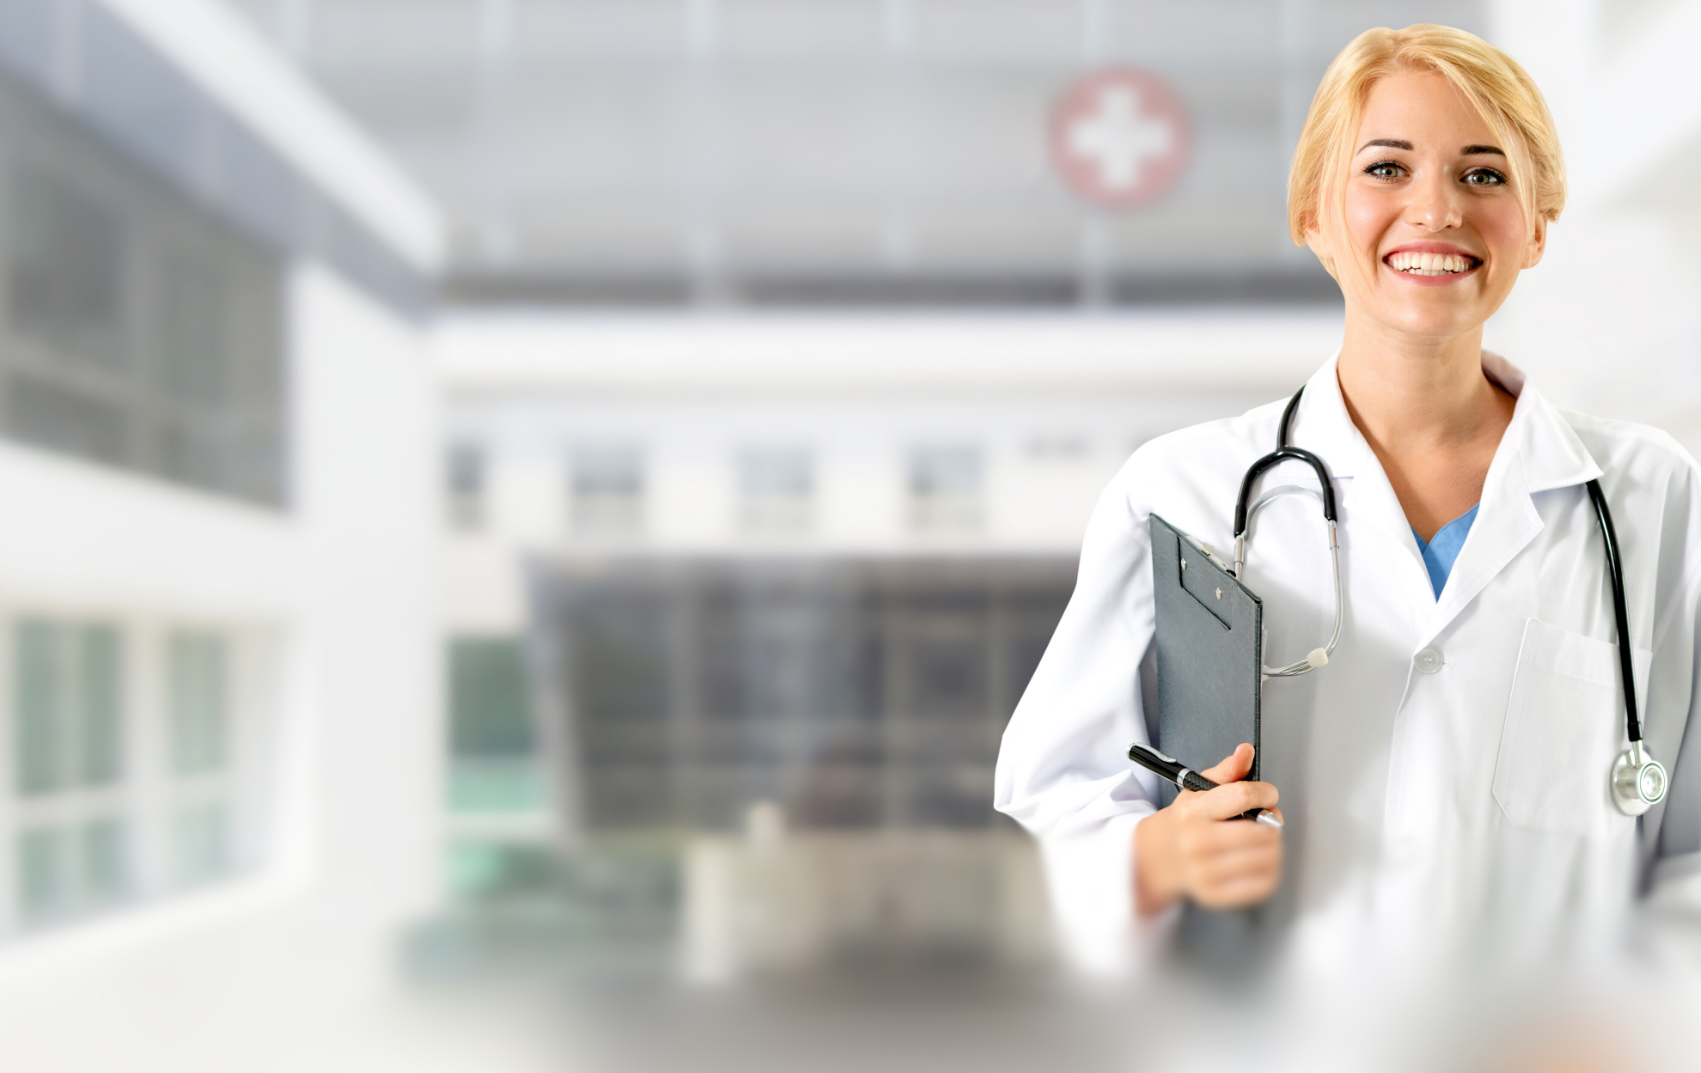
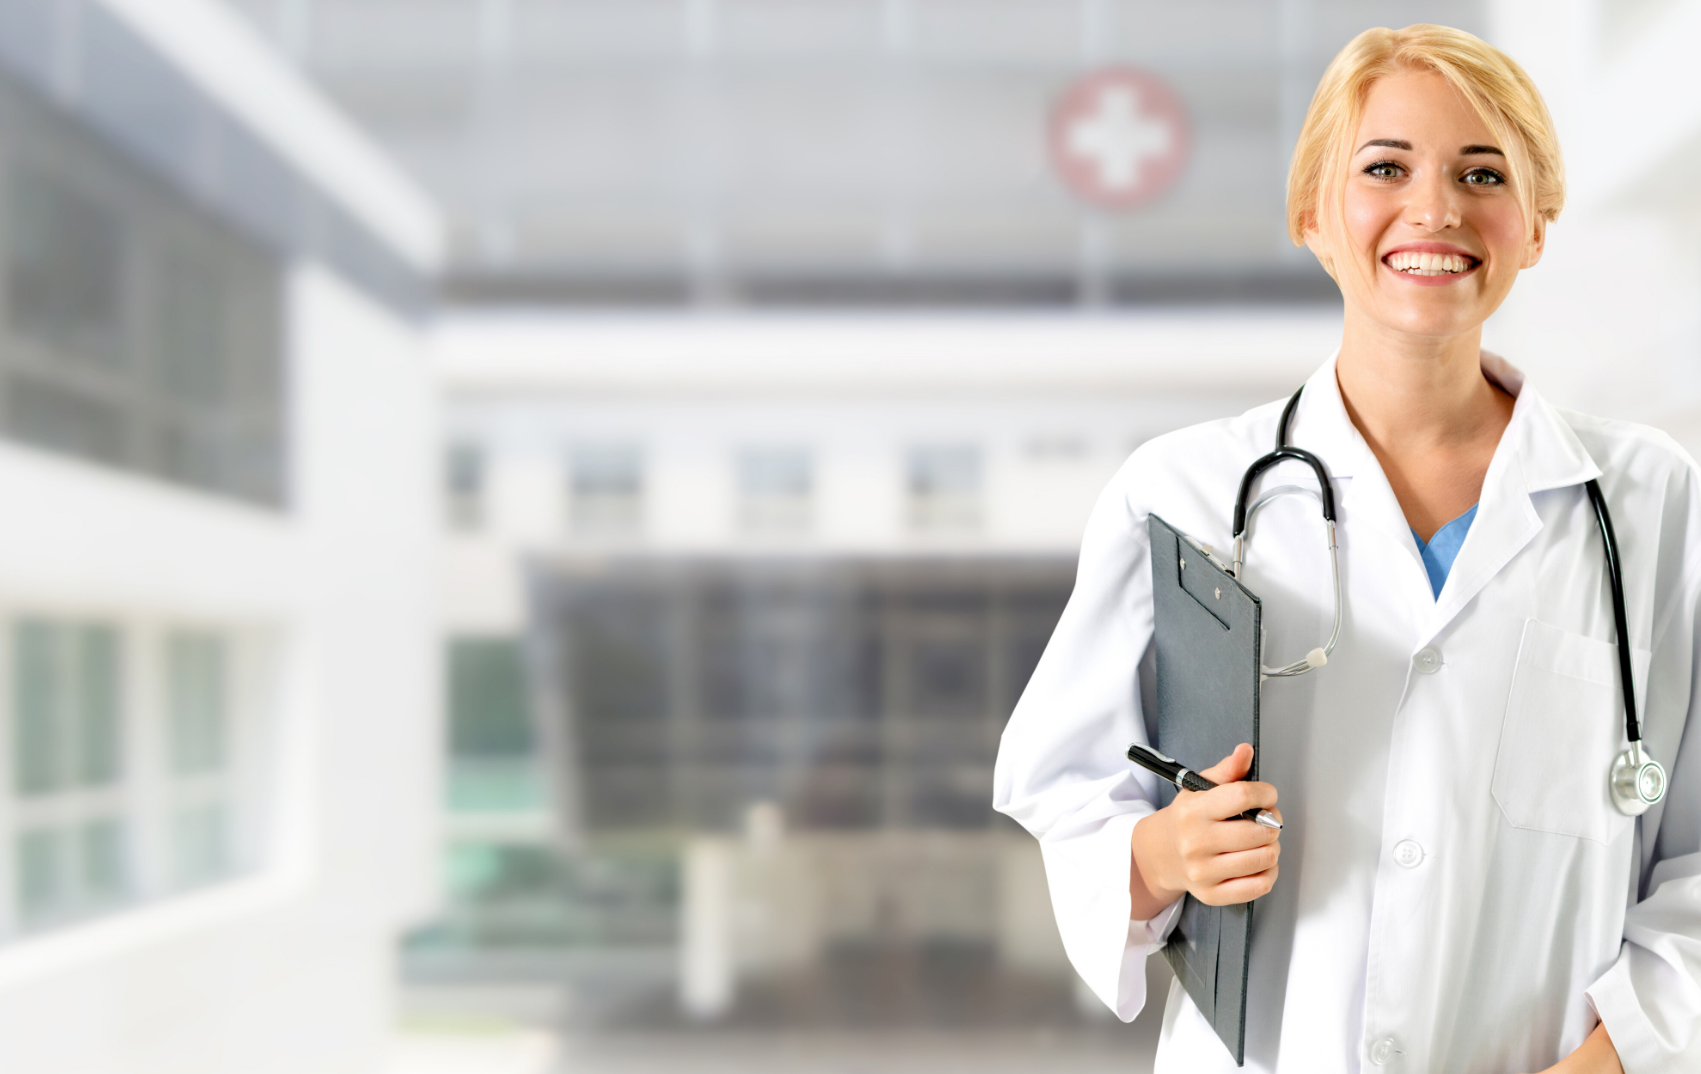
Fix issue with background image overlap; Remove blur effect at the bottom of background image; Remove background image for viewports with width less than 1068px; Finish layout of landing page

diff --git a/clinic-frontend/src/app/landing-page/landing-page.component.html b/clinic-frontend/src/app/landing-page/landing-page.component.html
@@ -1,10 +1,10 @@
 <main>
     <div class="mx-xl-5 mx-lg-4 mx-md-3 mx-sm-0 px-xl-5 px-4 py-4">
         <section class="w-lg-75 w-100">
-                        <p class="heading">
-                            Your health journey starts here. <br>
-                            Welcome to MedicaPlus.
-                        </p>
+            <p class="heading">
+                Your health journey starts here. <br>
+                Welcome to MedicaPlus.
+            </p>
             <p class="subheading">
                 Our dedicated team of medical professionals provides personalized care for all your needs.
             </p>
@@ -40,9 +40,40 @@
             </div>
         </section>
         <br>
-        <section class="w-lg-75 w-100 mt-5">
+        <section class="mt-5">
             <strong>Benefits to choosing MedicaPlus</strong>
-            
+            <div class="d-flex flex-wrap flex-lg-nowrap gap-3 mt-2">
+                <div class="card px-lg-2 px-md-1 px-sm-1 py-1 py-lg-2 py-md-1 py-sm-1">
+                    <div class="card-body">
+                        <div class="card-title">
+                            Convenience
+                        </div>
+                        <div class="card-text">
+                            All necessary information in one place. Schedule and manage your appointments online.
+                        </div>
+                    </div>
+                </div>
+                <div class="card px-lg-2 px-md-1 px-sm-1 py-1 py-lg-2 py-md-1 py-sm-1">
+                    <div class="card-body">
+                        <div class="card-title">
+                            Expertise
+                        </div>
+                        <div class="card-text">
+                            Our team consists of experienced and board-certified doctors and nurses.
+                        </div>
+                    </div>
+                </div>
+                <div class="card px-lg-2 px-md-1 px-sm-1 py-1 py-lg-2 py-md-1 py-sm-1">
+                    <div class="card-body">
+                        <div class="card-title">
+                            Technology
+                        </div>
+                        <div class="card-text">
+                            We utilize advanced technology to ensure accurate diagnosis and efficient treatment.
+                        </div>
+                    </div>
+                </div>
+            </div>
         </section>
     </div>
 </main>

diff --git a/clinic-frontend/src/app/landing-page/landing-page.component.scss b/clinic-frontend/src/app/landing-page/landing-page.component.scss
@@ -1,11 +1,12 @@
 @import '../../styles.scss';
 
 main {
-    background-image: url('../../assets/images/landing-page-image.png');
-    background-repeat: no-repeat;
-    background-size: 100%;
-    background-position-x: center;
-    background-attachment: fixed;
+    @media (min-width: 1068px) {
+        background-image: url('../../assets/images/landing-page-image.png');
+        background-repeat: no-repeat;
+        background-size: 100%;
+        background-attachment: scroll;
+    }
 }
 
 .heading {
@@ -20,13 +21,13 @@ main {
 }
 
 .w-lg-75 {
-    @include media-breakpoint-up(lg){
+    @include media-breakpoint-up(lg) {
         width: 75% !important;
     }
 }
 
 .w-xl-75 {
-    @include media-breakpoint-up(xl){
+    @include media-breakpoint-up(xl) {
         width: 75% !important;
     }
 }

diff --git a/clinic-frontend/src/styles.scss b/clinic-frontend/src/styles.scss
@@ -50,6 +50,11 @@ strong {
 
 .card-title {
     font-size: 1.2rem;
+    font-weight: 700;
+}
+
+.card-text {
+    font-weight: 300;
 }
 
 .action-card-strip {
